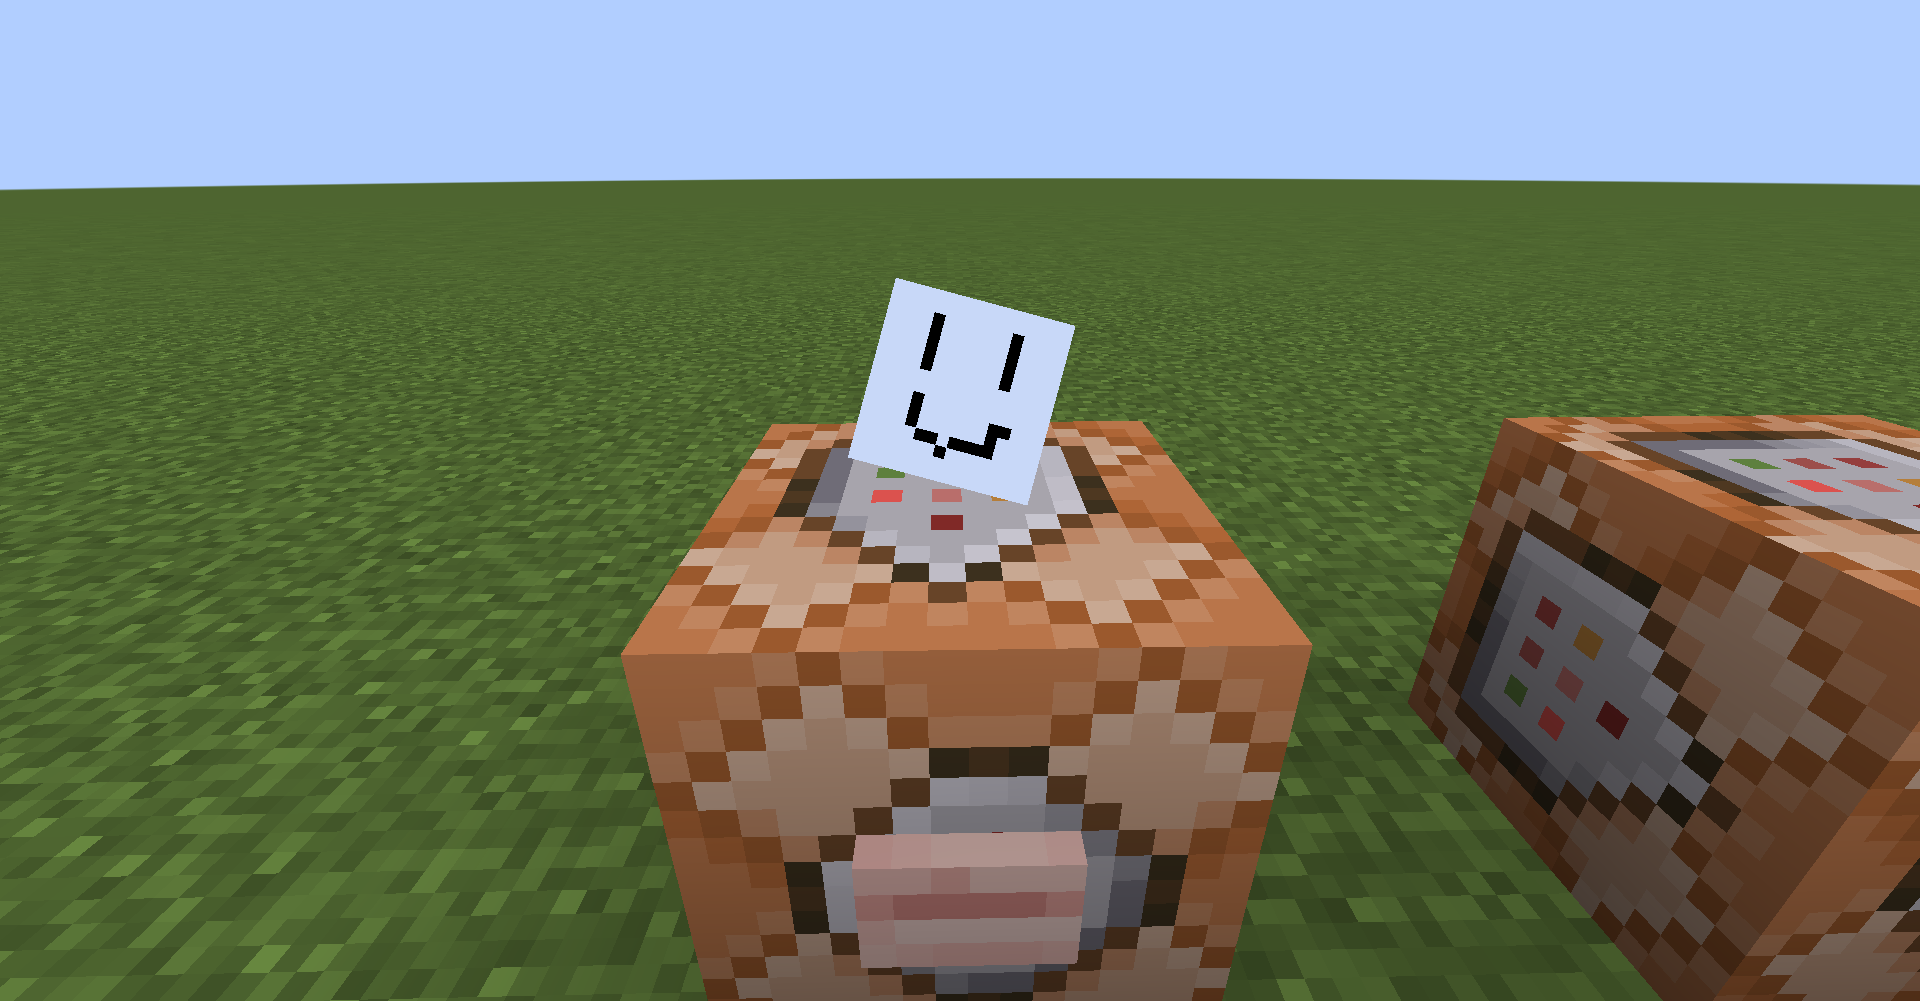
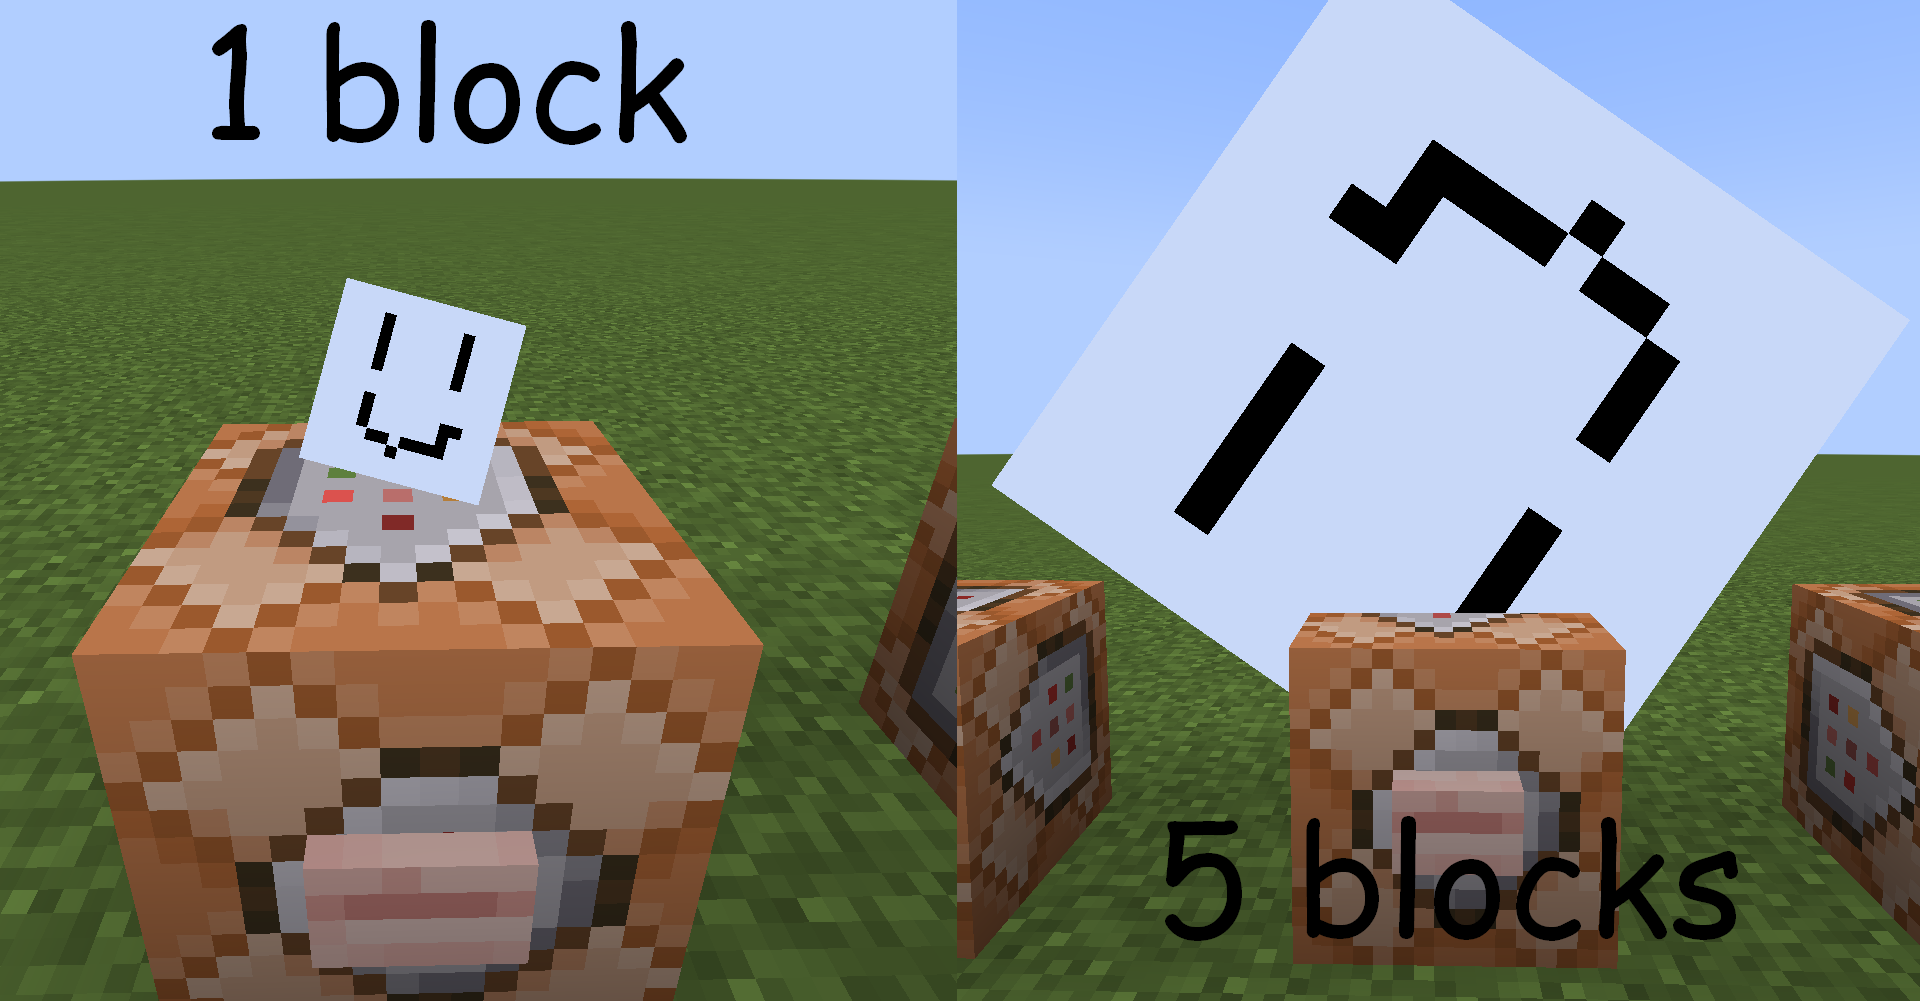
Improvements
REFACTOR: Improved overall usability of the tutorial
REFACTOR: Merged the 1 block and 5 block images into one image
REFACTOR: Merged both the 10 block images into one

diff --git a/content/9.misc/creating-particles-factories.md b/content/9.misc/creating-particles-factories.md
@@ -12,16 +12,16 @@ To use a custom particle factory, you'll need to create a class to contain all o
 Next up, create a new class with the name of your particle. For this example, we will be calling it `MyParticle.class`. We have a particle already named "myparticle", however, if you had a particle named "fireball", you could name the class "FireballParticle.class". 
 
 ## Adding Code
-Your particle needs code! A lot of code. Let's begin by adding the constructor and tick methods. Your class needs to extend the `SpriteBillboardParticle` class, and needs to have the `@Environment(EnvType.CLIENT)` line above it. 
+Your particle needs code! A lot of code. Let's begin by having our class extend the `SpriteBillboardParticle` class. You will also need to have the `@Environment(EnvType.CLIENT)` line above it. 
 
 ```java
 @Environment(EnvType.CLIENT)
 public class MyParticle extends SpriteBillboardParticle {
-
+  //Add code here
 }
 ```
 
-You then will need to create the methods required for the particle to function. Let's add the methods required to make the particle come to life.
+You then will need to create the methods required for the particle to function.
 
 ```java
 @Environment(EnvType.CLIENT)
@@ -38,10 +38,16 @@ public class MyParticle extends SpriteBillboardParticle {
     //Tick particle method
     //Activated every single tick the particle is alive
   }
+
+  @Override
+  public ParticleTextureSheet getType() {
+    //Particle texture sheet method
+    //Allows for the particle to determine its texture "type" to a degree
+  }
 }
 ```
 
-*Depending on your IDE of choice, some code that isn't in the snippet above may be added. If so, then do not worry about it for now.*  
+*Depending on your IDE of choice, the ParticleTextureSheet may have automatically been added and returned a value of "null". If that is the case, then let it be for now.*  
 The code above is for some of the methods required to make your particle have motion. There are still more methods to come however. But first, let's add some code to the stuff we already have.
 
 ## Determining What Variables To Add
@@ -63,19 +69,21 @@ In the particle's constructor, there are many variables you can choose to edit t
 
 Once you have figured out which variables you want to adjust, and which ones you want to leave as default, it is time to continue adding code!
 
-## Adding Variables
-Back to your particle's constructor, it is finally time to add some variables! As mentioned earlier, our goal is to make a particle which falls slowly, spins, and changes size, then stop all movement and fade away upon hitting the ground.  
-This means we're going to want to have some variables to allow for this, like the `angle`, `alpha`, and `collidesWithWorld` boolean. But then there are also variables we'd just want in general, like the `age` and `scale`, as well as the variables related to positisioing.
-
+## Adding Code to The Constructor
+Back to your particle's constructor, it is finally time to add some code! At this point, you should have some variables in mind for what you want to add. However, if there is a variable you missed, you can always come back and add them!  
+As mentioned earlier, our goal is to make a particle which falls slowly, spins, and changes size, then stop all movement and fade away upon hitting the ground. This means we're going to want to have some variables to allow for this, like the `angle`, `alpha`, and `collidesWithWorld` boolean.  
+There are also variables we'd just want in general, like the `age` and `scale`, as well as the variables related to positisioing.  
 ```java
 @Environment(EnvType.CLIENT)
 public class MyParticle extends SpriteBillboardParticle {
-  //Leave at least one line of space here for later
+  //The sprite provider which is used to determine the particle's texture
+  private final SpriteProvider spriteProvider;
 
   MyParticle(ClientWorld world, double x, double y, double z, double velX, double velY, double velZ, SpriteProvider spriteProvider) {
     super(world, x, y, z);
+    this.spriteProvider = spriteProvider; //Sets the sprite provider from above to the sprite provider in the constructor parameters
     this.maxAge = 200; //200 ticks = 10 seconds
-    this.scale = 0.1f; //About a block big
+    this.scale = 0.1f;
     this.velocityX = velX; //The velX from the constructor parameters
     this.velocityY = -0.07f; //Allows the particle to slowly fall
     this.velocityZ = velZ;
@@ -84,19 +92,17 @@ public class MyParticle extends SpriteBillboardParticle {
     this.z = z;
     this.collidesWithWorld = true;
     this.alpha = 1.0f; //Setting the alpha to 1.0f means there will be no opacity change until the alpha value is changed
+    this.setSpriteForAge(spriteProvider); //Required
   }
-
-  public void tick() {
-    //Tick particle method
-    //Activated every single tick the particle is alive
-  }
+  ...
 }
 ```
 
-Now that's a lot of variables! You may change the variables to your liking. But, you may have noticed something... Why do we change the "y" velocity if it is handled by the method caller? Well, we do this to make sure that, even if the method caller happens to be a command block, our particle will still fall slowly. Doing this doesn't always help, but in this case, it helps a lot!
+Now that's a lot of code! Let's go over it a little bit more. Firstly, we need to make sure to set the `this.x`, `this.y`, and `this.z` variables to constructor's respective variables(`x`, `y`, `z`), to ensure the particle spawns at the right posisiton.  
+What about the `velocityY` variable? Why did we set that to a predetermined number? Well, our goal is to make it so that our particle falls at the same rate every time. Setting the `velocityY` variable ahead of time helps reduce repeated code. However, if you think you may want to change the `velocityY` variable depending on when you call it, then it wouldn't be a bad idea to change the variable to be determined by the constructor's parameter.
 
 ## Adding Code to The Tick Method
-There are a lot of ways you could go about adding code to the tick method. We will be making it where our `age` variable is the amount of ticks the particle has been in the world, and our `maxAge` variable is the total amount of ticks the particle should be in the world before despawning.
+There are a lot of ways you could go about doing the code for the tick method. In this example, we will be making it where our `age` variable is the amount of ticks the particle has been in the world, and our `maxAge` variable is the total amount of ticks the particle should be in the world before despawning. This is how most Minecraft particles work.
 
 ```java
   public void tick() {
@@ -107,11 +113,13 @@ There are a lot of ways you could go about adding code to the tick method. We wi
     if(this.age++ >= this.maxAge || this.scale <= 0 || this.alpha <= 0>) { //Despawns the particle if the age has reached the max age, or if the scale is 0
       this.markDead(); //Despawns the particle
     } else {
+      this.setSpriteForAge(this.spriteProvider); //Animates the particle if needed
       this.move(this.velocityX, this.velocityY, this.velocityZ);
     }
   }
 ```
-We have started by adding what is required. A way to despawn the particle, and a way to move the particle. Let's continue from here!
+We have started by adding what is required. A way to despawn the particle, a way to move the particle, and a way to animate the particle. You can comment out the `this.setSpriteForAge` line to remove animation from the particle, and instead have the particle choose one of the textures!  
+Next, let's add some life to our particle!
 
 ```java
   public void tick() {
@@ -136,41 +144,19 @@ We have started by adding what is required. A way to despawn the particle, and a
 
         this.alpha -= 0.05f; //Slowly fades away upon hitting the ground
       }
+      this.setSpriteForAge(this.spriteProvider); //Animates the particle if needed
       this.move(this.velocityX, this.velocityY, this.velocityZ);
     }
   }
 ```
-Woah, what's going on here? A lot, actually. However, let's look at things from one bit of code to the next. First, we are detecting if the particle is on the ground with the `if(!this.onGround)` statement. If the particle *isn't* on the ground, it will continue the statement. The statement continues by asking if the particle has progressed through a third of its age. If so, then it starts to shrink the particle, otherwise it'll continue to grow the particle. Also, if the particle *isn't* on the ground, it will continue to change its angle by adding the previous angle plus an additionial float.  
-What if the particle is on the ground? If the particle is on the ground, the particle losses *most* velocity. It still has the velocityY going, because we never set it to 0. We don't need to. The reason why we set it to something in the first place is to let it hit the ground, and now that it is on the ground, and because the particle collides with the world, the particle stops the "y" velocity automatically!  
+Woah, what's going on here? A lot of simple checks, actually! Let's break down the code.  
+First, we are detecting if the particle is off the ground with the `if(!this.onGround)` statement. If the particle *isn't* on the ground, it will continue the statement. The statement continues by slightly changing the particle's angle. Then it asks if the particle has progressed through a third of its age with the `if(this.age >= this.maxAge / 3)` code. If so, then it starts to shrink the particle. Otherwise it'll continue to grow the particle.  
+What if the particle *is* on the ground? If the particle is on the ground, the particle losses *most* velocity. It still has the velocityY, because we never set it to 0. We don't need to. The reason why we set it to something in the first place is to let it hit the ground. And now that it is on the ground, and because the particle collides with the world, the particle stops the "y" velocity automatically!  
 We also begin to reduce the particle's alpha, until it eventually despawns whenever the alpha hits 0, thanks to the `if(this.age++ >= this.maxAge || this.scale <= 0 || this.alpha <= 0)` statement from earlier.
 
-## Textures
-We are getting very close to completeing our beautiful new particle factory. But, what is the point of making a beautiful particle factory if we can't see its beautiful texture? That's where our next bits of code comes in. First, you need to add the following.
-```java
-@Environment(EnvType.CLIENT)
-public class MyParticle extends SpriteBillboardParticle {
-  private final SpriteProvider spriteProvider; //Add me!
-  MyParticle(ClientWorld world, double x, double y, double z, double velX, double velY, double velZ, SpriteProvider spriteProvider) {
-    super(world, x, y, z);
-    this.spriteProvider = spriteProvider; //Add me!
-    ...
-    this.setSpriteForAge(spriteProvider); //Add me!
-  }
-```
-You need to add one extra line to the tick method next. Notice the one line of code with the comment, "Add me!".
-```java
-  public void tick() {
-  ...
-    if(this.age++ >= this.maxAge || this.scale <= 0 || this.alpha <= 0>) {
-      this.markDead();
-    } else {
-      ...
-      this.move(this.velocityX, this.velocityY, this.velocityZ);
-      this.setSpriteForAge(this.spriteProvider); //Add me!
-    }
-  }
-```
-And lastly, the method regarding the texture's type.
+## Texture Sheet
+We are getting very close to completeing our beautiful new particle factory. But, we need to figure out which TextureSheet is best for us. Let's go with `PARTICLE_SHEET_TRANSLUCENT`, as it allows for our particle to have some transparency. An alternative is `PARTICLE_SHEET_OPAQUE`, which does not allow for any transparency.
+
 ```java
   @Override
   public ParticleTextureSheet getType() {
@@ -182,13 +168,14 @@ There is one last method we need to add before testing our particle. It is the m
 ```java
   @Environment(EnvType.CLIENT)
   public static class Factory implements ParticleFactory<DefaultParticleType> {
-      private final SpriteProvider spriteProvider;
-      public Factory(SpriteProvider spriteProvider) { //The factory used in the client initializer
-        this.spriteProvider = spriteProvider;
-      }
-      public Particle createParticle(DefaultParticleType defaultParticleType, ClientWorld clientWorld, double x, double y, double z, double velX, double velY, double velZ) {
-        return new MyParticle(clientWorld, x, y, z, velX, velY, velZ, this.spriteProvider);
-      }
+    //The factory used in a particle's registry
+    private final SpriteProvider spriteProvider;
+    public Factory(SpriteProvider spriteProvider) {
+      this.spriteProvider = spriteProvider;
+    }
+    public Particle createParticle(DefaultParticleType defaultParticleType, ClientWorld clientWorld, double x, double y, double z, double velX, double velY, double velZ) {
+      return new MyParticle(clientWorld, x, y, z, velX, velY, velZ, this.spriteProvider);
+    }
   }
 ```
 Once you are done adding that, your particle code is complete! **But wait!** Don't load up your game yet, as you still need to register your particle using this new particle factory.
@@ -197,25 +184,24 @@ In your `ClientModInitializer` class, edit your particle register to something l
 ```java
 ParticleFactoryRegistry.getInstance().register(<mod id here>.MY_PARTICLE, MyParticle.Factory::new);
 ```
-Now that your particle factory is being used in the particle registry, you may load up your game and test out the particle!
+Now that your particle factory is being used in the particle registry, you can load up your game and test out the particle!
 ## The Most Beautiful Particle You Will Ever See
 Try spawning the particle a block in the air, 5 blocks in the air, and 10 whole blocks in the air!  
-A single block in the air.  
+A single block in the air and 5 blocks in the air.  
 ![](/misc/creating_particle_factories_1.png)  
-5 blocks in the air.  
-![](/misc/creating_particle_factories_2.png)  
 10 whole blocks in the air!  
-![](/misc/creating_particle_factories_3.png)  
-![](/misc/creating_particle_factories_4.png)  
+![](/misc/creating_particle_factories_2.png)  
 
 ## Full Example
 ```java
 @Environment(EnvType.CLIENT)
 public class MyParticle extends SpriteBillboardParticle {
+  //The sprite provider which is used to determine the particle's texture
   private final SpriteProvider spriteProvider;
+
   MyParticle(ClientWorld world, double x, double y, double z, double velX, double velY, double velZ, SpriteProvider spriteProvider) {
     super(world, x, y, z);
-    this.spriteProvider = spriteProvider;
+    this.spriteProvider = spriteProvider; //Sets the sprite provider from above to the sprite provider in the constructor method
     this.maxAge = 200; //200 ticks = 10 seconds
     this.scale = 0.1f; //About a block big
     this.velocityX = velX; //The velX from the constructor parameters
@@ -226,14 +212,14 @@ public class MyParticle extends SpriteBillboardParticle {
     this.z = z;
     this.collidesWithWorld = true;
     this.alpha = 1.0f; //Setting the alpha to 1.0f means there will be no opacity change until the alpha value is changed
-    this.setSpriteForAge(spriteProvider);
+    this.setSpriteForAge(spriteProvider); //Required
   }
 
   public void tick() {
     this.prevPosX = this.x;
     this.prevPosY = this.y;
     this.prevPosZ = this.z;
-    this.prevAngle = this.angle;
+    this.prevAngle = this.angle; //Required for rotating the particle
     if(this.age++ >= this.maxAge || this.scale <= 0 || this.alpha <= 0) { //Despawns the particle if the age has reached the max age, or if the scale is 0, or if the alpha is 0
       this.markDead(); //Despawns the particle
     } else {
@@ -251,25 +237,26 @@ public class MyParticle extends SpriteBillboardParticle {
 
         this.alpha -= 0.05f; //Slowly fades away upon hitting the ground
       }
+      this.setSpriteForAge(this.spriteProvider); //Animates the particle if needed
       this.move(this.velocityX, this.velocityY, this.velocityZ);
-      this.setSpriteForAge(this.spriteProvider);
     }
   }
 
   @Override
   public ParticleTextureSheet getType() {
-    return ParticleTextureSheet.PARTICLE_SHEET_TRANSLUCENT; //Allows for the texture to have some transparency
+    return ParticleTextureSheet.PARTICLE_SHEET_TRANSLUCENT; //Allows for the texture to have some transparency 
   }
 
   @Environment(EnvType.CLIENT)
   public static class Factory implements ParticleFactory<DefaultParticleType> {
-      private final SpriteProvider spriteProvider;
-      public Factory(SpriteProvider spriteProvider) { //The factory used in the client initializer
-        this.spriteProvider = spriteProvider;
-      }
-      public Particle createParticle(DefaultParticleType defaultParticleType, ClientWorld clientWorld, double x, double y, double z, double velX, double velY, double velZ) {
-        return new MyParticle(clientWorld, x, y, z, velX, velY, velZ, this.spriteProvider);
-      }
+    //The factory used in a particle's registry
+    private final SpriteProvider spriteProvider;
+    public Factory(SpriteProvider spriteProvider) {
+      this.spriteProvider = spriteProvider;
+    }
+    public Particle createParticle(DefaultParticleType defaultParticleType, ClientWorld clientWorld, double x, double y, double z, double velX, double velY, double velZ) {
+      return new MyParticle(clientWorld, x, y, z, velX, velY, velZ, this.spriteProvider);
+    }
   }
 }
 ```
